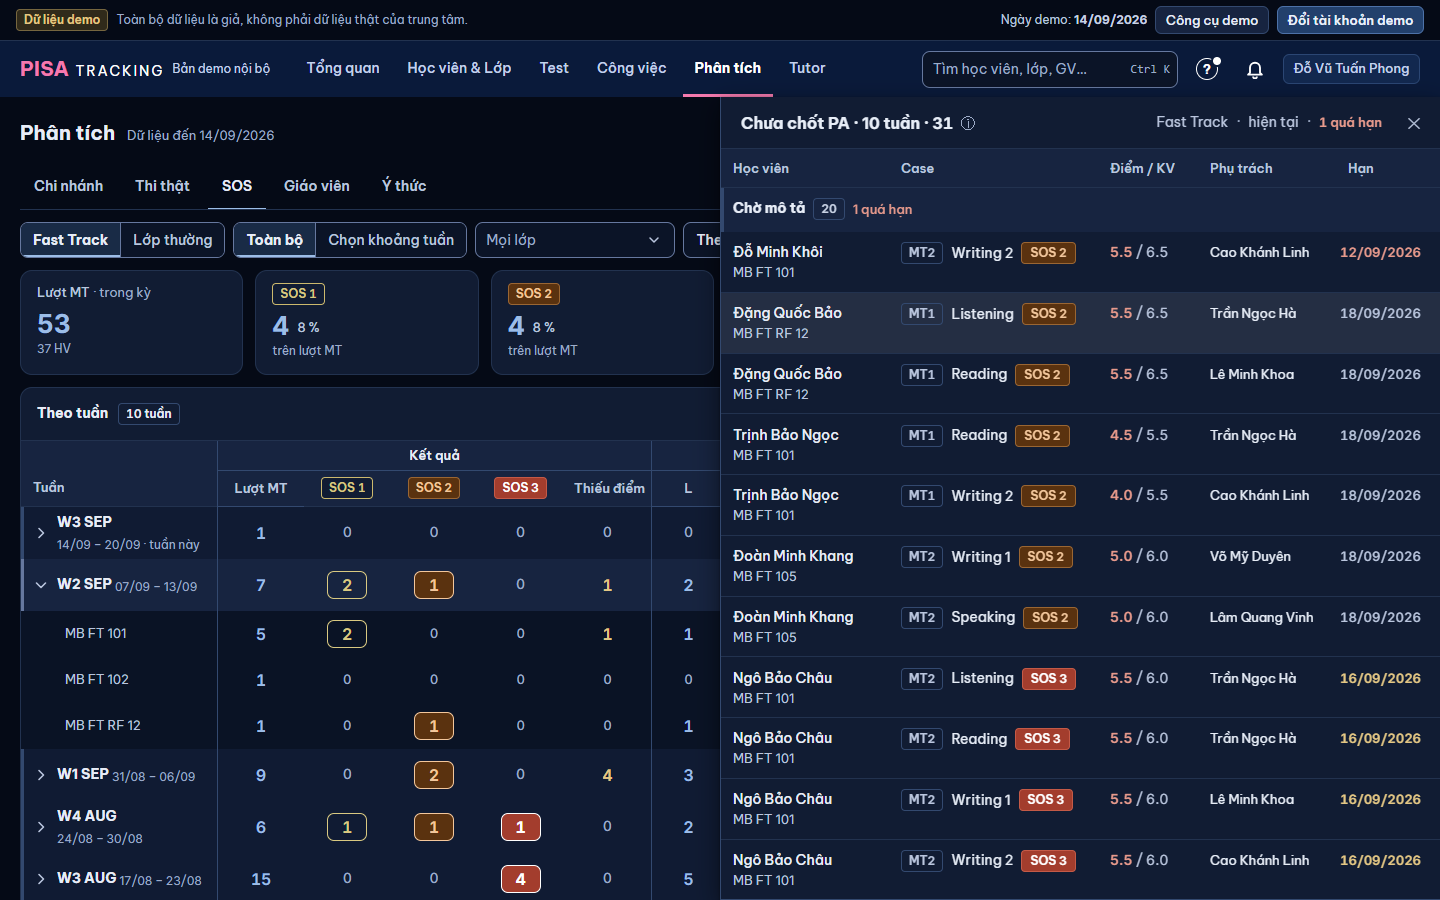
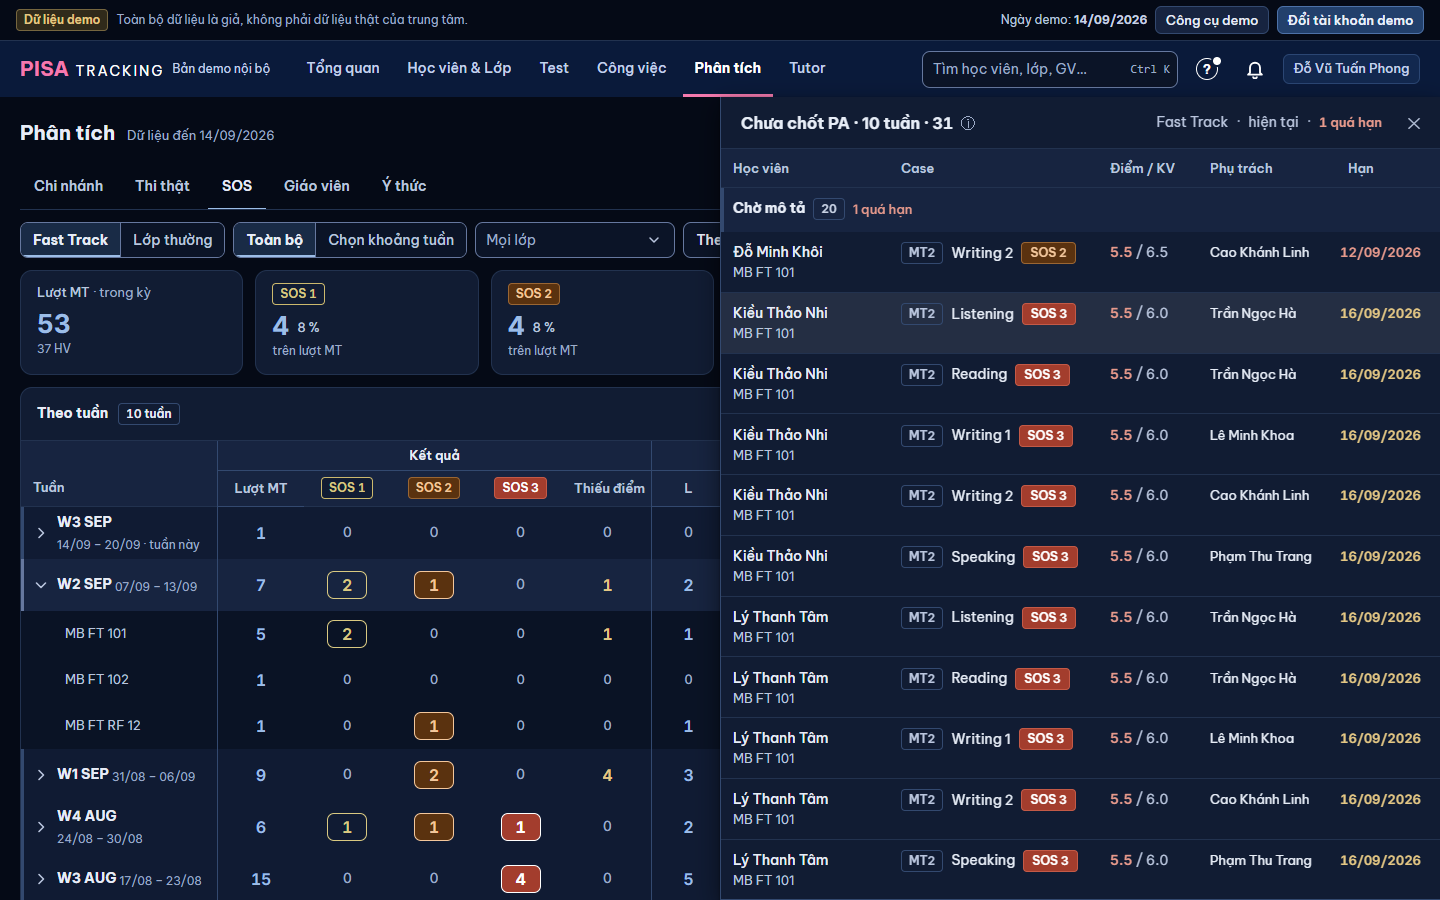
PR 3: Case trong nhóm xếp quá hạn trước rồi hạn gần trước, cùng hạn theo tên (+ phép kiểm)

diff --git a/web/src/ui/SoLieu.tsx b/web/src/ui/SoLieu.tsx
@@ -287,7 +287,9 @@ export function NganDanhSach({ nguon, tieuDe, dv, data, loading, error, reload, 
     : [...xep];
   for (const [id, g] of giu) if (!xep.some((r) => r.id === id)) hien.splice(Math.min(g.i, hien.length), 0, { ...g.dong, xong: g.chu });
   const hienLoc = loc.length ? hien.filter((r) => loc.includes(buocCuaDong(r))) : hien;
-  const nhom = nhomCase ? BUOC_CASE.map((b) => { const cua = hienLoc.filter((r) => buocCuaDong(r) === b); return { buoc: b, ten: NHAN_BUOC_CASE[b], dong: [...cua.filter((r) => !r.xong && tre(r)), ...cua.filter((r) => r.xong || !tre(r))] }; }).filter((g) => g.dong.length > 0) : null;
+  /* v24 B3: trong nhóm — quá hạn trước, rồi HẠN GẦN TRƯỚC (không hạn cuối), cùng hạn theo tên. */
+  const theoHan = (a: DongSoLieu, b: DongSoLieu) => (hanCua(a) ?? '9999-12-31').localeCompare(hanCua(b) ?? '9999-12-31') || (a.em?.ten ?? a.title).localeCompare(b.em?.ten ?? b.title, 'vi');
+  const nhom = nhomCase ? BUOC_CASE.map((b) => { const cua = hienLoc.filter((r) => buocCuaDong(r) === b); return { buoc: b, ten: NHAN_BUOC_CASE[b], dong: [...cua.filter((r) => !r.xong && tre(r)).sort(theoHan), ...cua.filter((r) => r.xong || !tre(r)).sort(theoHan)] }; }).filter((g) => g.dong.length > 0) : null;
   const thuTu = nhom ? nhom.flatMap((g) => g.dong) : hien;
   /* Việc của dòng `?dong=` khi chuỗi có view. Đang làm thì giữ dòng đã mở (`giuLam`): lưu xong máy chủ trả dòng không còn việc / bỏ dòng → panel làm việc
      không tắt giữa "✓ Đã lưu". Mở lại từ URL (F5, Forward) chỉ với dòng còn việc, chưa xong. 6b-2: dòng Case có nhóm mở được cả khi chỉ xem / đã xử lý. */

diff --git a/server/src/tests/prBang0.tests.ts b/server/src/tests/prBang0.tests.ts
@@ -174,6 +174,12 @@ export async function runPrBang0Tests(t: YThucTestKit) {
     assert(/rong="so720"/.test(s) && !/chan=\{/.test(s), 'panel bảng dùng khuôn so720, không chân');
   });
 
+  check('SO-720 · Case chưa chốt PA: trong nhóm bước xếp quá hạn trước, rồi hạn gần trước, cùng hạn theo tên', () => {
+    const t = nguon.find((x) => x.f === 'web/src/ui/SoLieu.tsx')?.text ?? '';
+    assert(/const theoHan = \(a: DongSoLieu, b: DongSoLieu\) => \(hanCua\(a\) \?\? '9999-12-31'\)\.localeCompare\(hanCua\(b\) \?\? '9999-12-31'\) \|\| /.test(t), 'hàm so thứ tự hạn gần trước, rồi tên');
+    assert(/\.filter\(\(r\) => !r\.xong && tre\(r\)\)\.sort\(theoHan\), \.\.\.cua\.filter\(\(r\) => r\.xong \|\| !tre\(r\)\)\.sort\(theoHan\)/.test(t), 'quá hạn trước, mỗi nửa xếp theo hạn');
+  });
+
   check('BANG-4 · Bang / ODiem: cỡ chữ trong ô ∈ {12, 13, 14} (thang NHẸ HƠN 22/11; 26 chỉ ODiem lon; 16 ODiem to — hồ sơ lớp V5 "điểm to", UI-HO-SO-LOP; 16 số thẻ lưới 375 `theLuoi` — mockup v8 tong-quan `.luoi-so .g`, V8-TQ)', () => {
     for (const f of ['web/src/ui/Bang.tsx', 'web/src/ui/ODiem.tsx']) {
       const s = nguon.find((x) => x.f === f)?.text;
